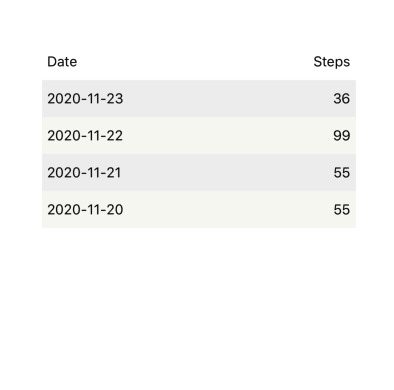
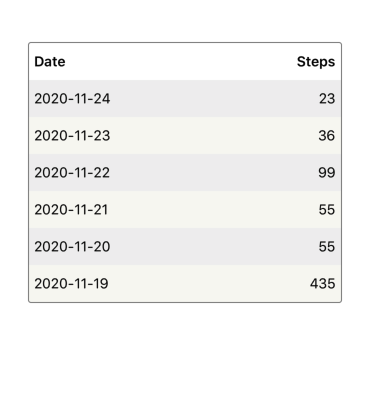
Update UI

diff --git a/App.js b/App.js
@@ -109,24 +109,26 @@ const App = () => {
           contentInsetAdjustmentBehavior="automatic"
           style={styles.scrollView}
         >
-          <View style={styles.itemRow}>
-            <Text>Date</Text>
-            <Text>Steps</Text>
+          <View style={styles.container}>
+            <View style={styles.itemRow}>
+              <Text style={styles.titleLabel}>Date</Text>
+              <Text style={styles.titleLabel}>Steps</Text>
+            </View>
+            {
+              steps.map((item, index) => {
+                const dateValue = item.startDate || item.date;
+                return (
+                  <View
+                    key={index}
+                    style={[styles.itemRow, { backgroundColor: index % 2 ? '#f7f7f2' : '#efefef' }]}
+                  >
+                    <Text>{dateValue.slice(0, 10)}</Text>
+                    <Text>{item.value}</Text>
+                  </View>
+                )
+              })
+            }
           </View>
-          {
-            steps.map((item, index) => {
-              const dateValue = item.startDate || item.date;
-              return (
-                <View
-                  key={index}
-                  style={[styles.itemRow, { backgroundColor: index % 2 ? '#f7f7f2' : '#efefef' }]}
-                >
-                  <Text>{dateValue.slice(0, 10)}</Text>
-                  <Text>{item.value}</Text>
-                </View>
-              )
-            })
-          }
         </ScrollView>
       </SafeAreaView>
     </>
@@ -139,12 +141,21 @@ const styles = StyleSheet.create({
     marginHorizontal: 50,
     height: '100%',
   },
+  container: {
+    borderColor: 'grey',
+    borderWidth: 1,
+    borderRadius: 3,
+    overflow: 'hidden',
+  },
   itemRow: {
     paddingVertical: 10,
     paddingHorizontal: 5,
     justifyContent: 'space-between',
     flexDirection: 'row'
   },
+  titleLabel: {
+    fontWeight: '600',
+  }
 });
 
 export default App;
